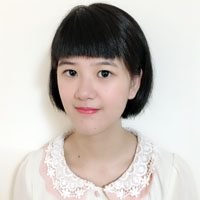
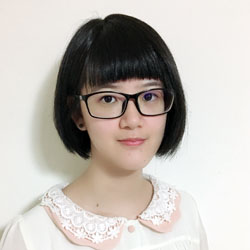
update profile photo.

diff --git a/index.html b/index.html
@@ -16,7 +16,7 @@
     <link rel="shortcut icon" href="favicon.png">
     <!-- Place favicon.ico in the root directory -->
     <link rel="stylesheet" href="css/normalize.css">
-    <link rel="stylesheet" href="css/main.css?20151003">
+    <link rel="stylesheet" href="css/main.css?20180525">
     <link rel="stylesheet" href="css/font-awesome.min.css">
     <link rel="stylesheet" href="css/magnific-popup.css">
     <link rel="stylesheet" href="css/nivo-slider.css">

diff --git a/css/main.css b/css/main.css
@@ -274,7 +274,7 @@ section#about a:hover, section#about a:focus{
     color: #888;
 }
 div#profile-pic{
-    background: url('../img/profile.jpg');
+    background: url('../img/profile.jpg?20180525');
     background-size: cover;
     background-position: center center;
     width: 140px;
